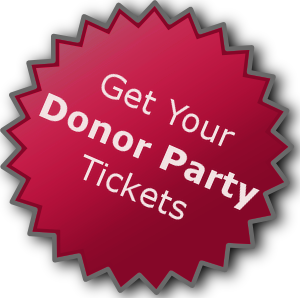
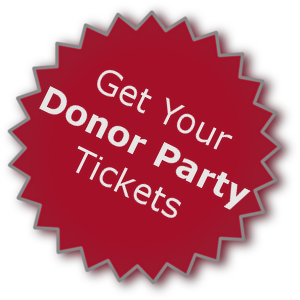
Moved Give to right, better donor party buttons

diff --git a/templates/index.html b/templates/index.html
@@ -16,7 +16,7 @@
 {% block content %}
      
   <section class="hero-image" >
-    <a href="/AnnualDonorParty" style="position:absolute; right:-105px; top:0px; z-index:200"><img width="228" height="228" alt="DonorParty" src="{{cdn}}/static/images/donorparty.png" onmouseover="this.src='{{cdn}}/static/images/donorparty.png';" onmouseout="this.src='{{cdn}}/static/images/donorparty.png';" border="0"></a>
+    <a href="/AnnualDonorParty" style="position:absolute; right:-105px; top:-40px; z-index:200"><img width="250" height="250" alt="DonorParty" src="{{cdn}}/static/images/donorparty.png" onmouseover="this.src='{{cdn}}/static/images/donorparty2.png';" onmouseout="this.src='{{cdn}}/static/images/donorparty.png';" border="0"></a>
 
     <div id="mycarousel" style="overflow:hidden">
     <ul style="overflow:none">

diff --git a/templates/base.html b/templates/base.html
@@ -19,10 +19,10 @@
 
             <nav>
                 {% comment %}<a href="http://signup.hackerdojo.com/dashboard">Login</a>{% endcomment %}
+                <a href="/Give">Give</a>
                 <a href="/Contact">Contact</a>
                 <a href="http://wiki.hackerdojo.com/">Wiki</a>
                 <a href="/About">About</a>
-                <a href="/Give">Give</a>
                 <a href="/Membership">Membership</a>
                 <a href="http://events.hackerdojo.com/">Events</a>
             </nav>
